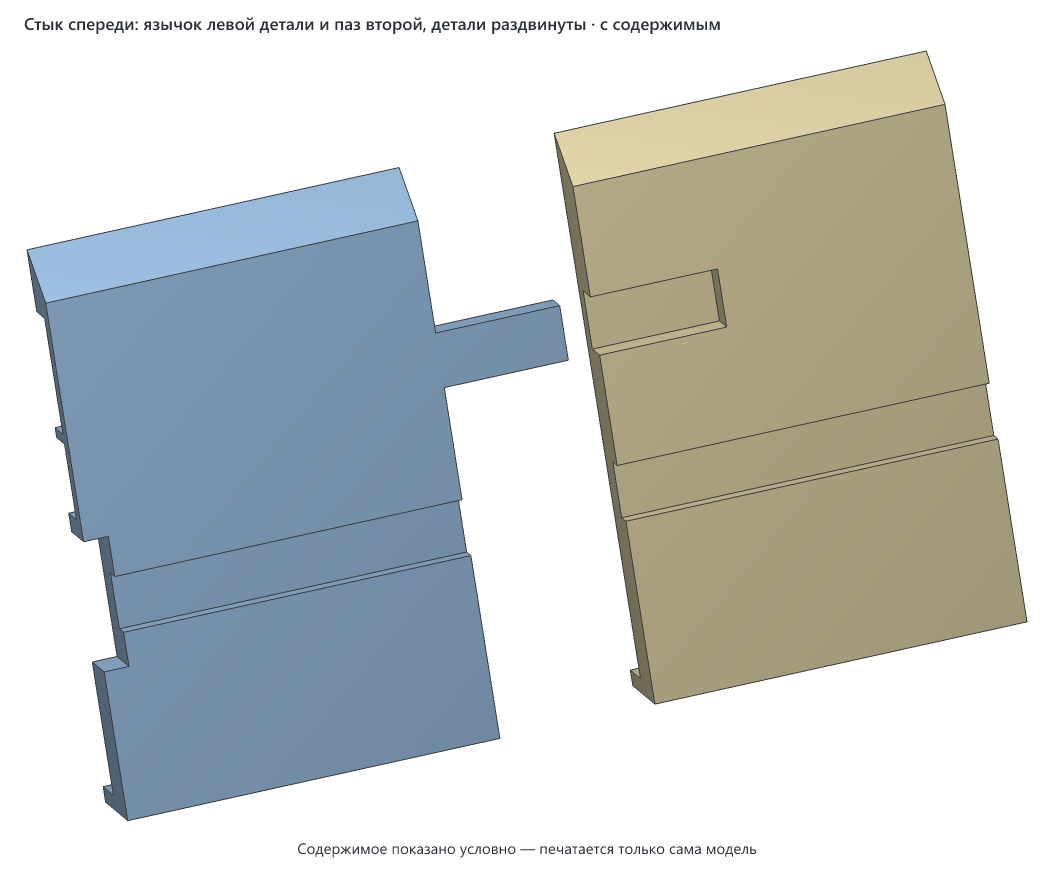
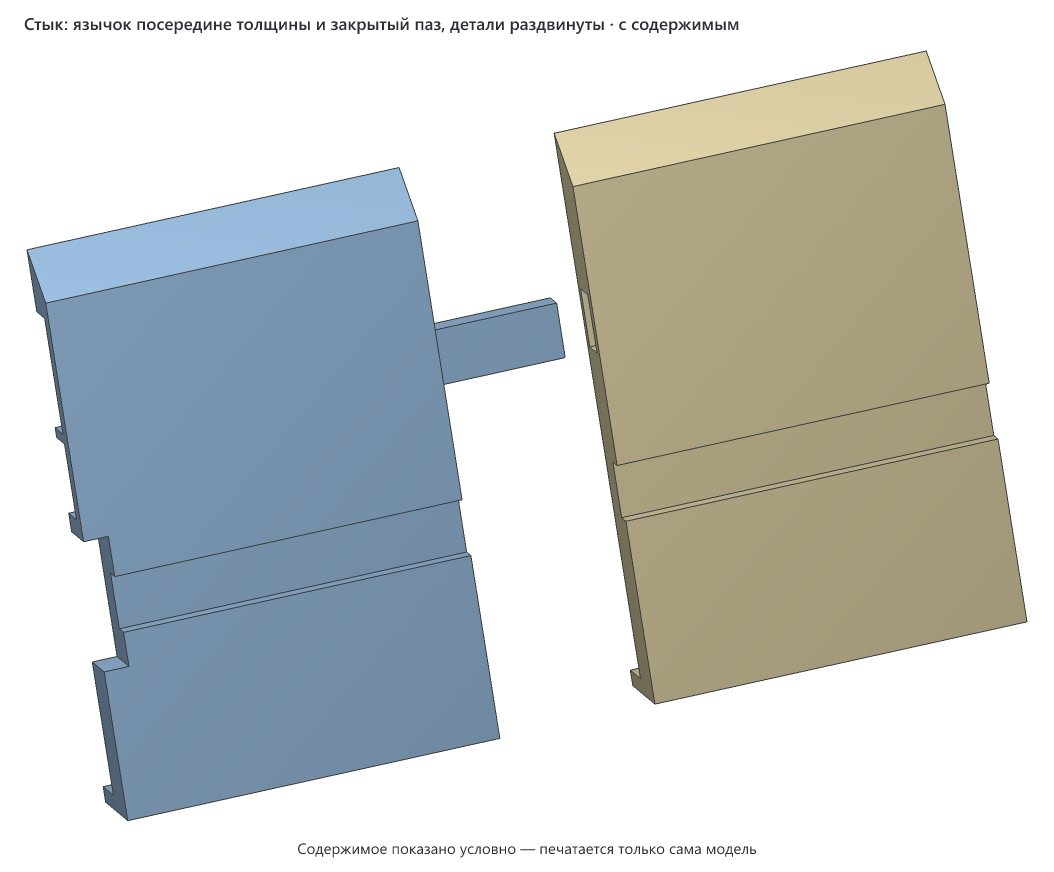
evoform-ledline-s-mirror-trim: язычок посередине толщины, поддержка под ним
Язычок был у лица, и спереди на шве виднелся его контур. Теперь он прямой,
20 × 8,8 × 3,7 мм, посередине толщины, паз закрыт спереди и сзади, открыт
в торец. Под язычком в файле печати поддержка: пять стенок 0,8 мм с зазором
0,2 мм. Сдвиг вдоль шва, зазоры, целое лицо и нависания проверены на модели.

diff --git a/models/evoform-ledline-s-mirror-trim/v1/src/mirror_trim.py b/models/evoform-ledline-s-mirror-trim/v1/src/mirror_trim.py
@@ -15,9 +15,10 @@
 
 Стыки (схема автора): на каждом стыке один прямой прямоугольный язычок и прямой паз под него, открытый в торец. Детали кладут
 лицом на стол и сдвигают друг к другу вдоль шва: язычок въезжает в паз. Поднутрений нет, сдвинуть ничто не мешает.
-Язычок лежит у лица (на печати — на столе): под ним ничего не висит, поддержка не нужна, а подложка обводит его
-со всех сторон и держит на столе. Потолок паза — мост, поэтому язычок
-не шире 8,8 мм: мост не длиннее 10 мм. Спереди на шве виден контур язычка.
+Язычок идёт посередине толщины: спереди и сзади его не видно, спереди шов прямой. Паз закрыт спереди и со стороны
+стекла, открыт только в торец, поэтому язычок держится в нём по высоте и по толщине. На печати лицом вниз язычок
+висит над столом, поэтому под ним в файле печати поддержка: тонкие стенки от стола до низа язычка с зазором
+в слой, после печати отламываются. Потолок паза — мост, поэтому язычок не шире 8,8 мм: мост не длиннее 10 мм.
 
 Пластина не сплошная: лицо 2,4 мм сплошное, сзади ячейки, открытые к стеклу. Сплошные рёбра 3 мм идут по краям,
 вдоль разреза (на верхнее ложится полка), вокруг окон, торцы сплошные (в них язычок или паз). Сплошная пластина
@@ -96,7 +97,11 @@ from manifold3d import CrossSection, JoinType, Manifold
 ЯЗЫК_Д = 20.0             # насколько язычок выходит из торца в соседнюю деталь. Длиннее деталь с подложкой
                           # не помещается на стол 220
 ЯЗЫК_Ш = 8.8              # ширина язычка по высоте накладки: потолок паза 9,4 мм — мост не длиннее 10
-ЯЗЫК_Т = 4.0              # толщина язычка от лица: на печати он лежит на столе; над пазом остаётся 2,7 мм
+ЯЗЫК_Т = 3.7              # толщина язычка
+ЯЗЫК_ОТ_ЛИЦА = 1.8        # язычок начинается в 1,8 мм за лицом: под пазом остаётся лицо 1,5, над пазом 1,2
+ПОДДЕРЖКА_ЗАЗОР = 0.2     # между верхом поддержки и низом язычка: один слой, чтобы поддержка отломилась
+ПОДДЕРЖКА_СТЕНКА = 0.8    # стенки поддержки: два периметра
+ПОДДЕРЖКА_Z = (-3.6, -1.8, 0.0, 1.8, 3.6)   # стенки поддержки вдоль язычка, от его середины по высоте накладки: просвет 1 мм
 ЯЗЫК_Z = 55.5             # центр язычка по высоте: середина верхней полосы, там больше всего пластика
 ПАЗ_ЗАЗОР = 0.3           # паз больше язычка по ширине и толщине на столько с каждой стороны
 ПАЗ_ЗАЗОР_КОНЕЦ = 0.5     # паз длиннее язычка: торцы деталей сходятся вплотную раньше, чем язычок упрётся
@@ -206,14 +211,35 @@ def extrude_y(cs, t):
 
 
 def tab(xs, d):
-    """Язычок у лица: Y от −ТОЛЩИНА до −ТОЛЩИНА + ЯЗЫК_Т."""
-    return extrude_y(CrossSection([tab_pts(xs, d)]), ЯЗЫК_Т).translate((0, -(ТОЛЩИНА - ЯЗЫК_Т), 0))
+    """Язычок посередине толщины: Y от −ТОЛЩИНА + ЯЗЫК_ОТ_ЛИЦА на ЯЗЫК_Т к стеклу."""
+    y_top = -(ТОЛЩИНА - ЯЗЫК_ОТ_ЛИЦА - ЯЗЫК_Т)
+    return extrude_y(CrossSection([tab_pts(xs, d)]), ЯЗЫК_Т).translate((0, y_top, 0))
 
 
 def slot(xs, d):
-    """Паз: открыт в торец и в лицо, со стороны стекла закрыт; потолок на ПАЗ_ЗАЗОР выше язычка."""
-    top = -(ТОЛЩИНА - ЯЗЫК_Т - ПАЗ_ЗАЗОР)
-    return extrude_y(CrossSection([slot_pts(xs, d)]), ТОЛЩИНА + 1 + top).translate((0, top, 0))
+    """Паз: открыт только в торец; спереди и со стороны стекла закрыт, больше язычка на ПАЗ_ЗАЗОР."""
+    y_top = -(ТОЛЩИНА - ЯЗЫК_ОТ_ЛИЦА - ЯЗЫК_Т - ПАЗ_ЗАЗОР)
+    return extrude_y(CrossSection([slot_pts(xs, d)]), ЯЗЫК_Т + 2 * ПАЗ_ЗАЗОР).translate((0, y_top, 0))
+
+
+def tab_support(xs, d):
+    """Поддержка под язычком, только в файле печати: стенки вдоль язычка от лица (стола) до низа язычка
+    с зазором ПОДДЕРЖКА_ЗАЗОР. От торца детали отступает на 0,5 мм, чтобы не прирасти к нему."""
+    h = ЯЗЫК_ОТ_ЛИЦА - ПОДДЕРЖКА_ЗАЗОР
+    a, b = (xs + 0.5, xs + ЯЗЫК_Д - 0.5) if d > 0 else (xs - ЯЗЫК_Д + 0.5, xs - 0.5)
+    m = Manifold()
+    for dz in ПОДДЕРЖКА_Z:
+        z = ЯЗЫК_Z + dz
+        m += box(a, b, -ТОЛЩИНА, -ТОЛЩИНА + h, z - ПОДДЕРЖКА_СТЕНКА / 2, z + ПОДДЕРЖКА_СТЕНКА / 2)
+    return m
+
+
+def supports_of(k):
+    m = Manifold()
+    for xs, kt, ks, d in СТЫКИ:
+        if kt == k:
+            m += tab_support(xs, d)
+    return m
 
 
 def piece(k):
@@ -270,9 +296,6 @@ def keepout(x0, x1, holders, joints=()):
         ko += CrossSection.square((b - a + 2 * c, ДЕРЖ_В + 2 * c)).translate((a - c, -(ДЕРЖ_Z + ДЕРЖ_В) - c))
         xm = (a + b) / 2
         ko += CrossSection.square((ПАЗ_Ш + 2 * o, ДЕРЖ_Z - НИЗ + 2 * o)).translate((xm - ПАЗ_Ш / 2 - o, -ДЕРЖ_Z - o))
-    for xs, kind, d in joints:
-        if kind == "паз":   # язычок подложка обводит: так его не поднимет со стола, остаток срезать ножом
-            ko += bed_cs(slot_pts(xs, d)).offset(o, JoinType.Miter)
     return ko
 
 
@@ -325,8 +348,8 @@ def place(parts, y0=СТОЛ_Y0):
 
 def plate(k):
     x0, x1 = ГРАНИЦЫ[k], ГРАНИЦЫ[k + 1]
-    m = to_bed(piece(k))
-    m = m + pad(m, keepout(x0, x1, holders_in(k), joints_of(k)), ПОДЛОЖКА_Ш, УШКО_R, (x0, x1))
+    m = to_bed(piece(k) + supports_of(k))
+    m = m + pad(m, keepout(x0, x1, holders_in(k)), ПОДЛОЖКА_Ш, УШКО_R, (x0, x1))
     return place([(ИМЕНА[k + 1], m)])
 
 
@@ -336,10 +359,9 @@ def test_plate():
     clip = lambda a, b: box(a, b, -50, 50, -50, 150)
     w0, w1 = ДЕРЖ_X[0] - ОКНО_ЗАЗОР - РАМКА - 8, ДЕРЖ_X[1] + ОКНО_ЗАЗОР + РАМКА + 8   # окно с рамкой и по 8 мм
     pieces = [("окно", piece(0) ^ clip(w0, w1), (w0, w1), holders_in(0), []),
-              ("язычок", piece(0) ^ clip(ШОВ_1 - 15.0, ШОВ_1 + ЯЗЫК_Д + 1), (ШОВ_1 - 15.0, ШОВ_1), [],
-               [(ШОВ_1, "язычок", +1)]),
-              ("паз", piece(1) ^ clip(ШОВ_1, ШОВ_1 + ТОРЕЦ_ПАЗ + 4), (ШОВ_1, ШОВ_1 + ТОРЕЦ_ПАЗ + 4), [],
-               [(ШОВ_1, "паз", +1)])]
+              ("язычок", (piece(0) + supports_of(0)) ^ clip(ШОВ_1 - 15.0, ШОВ_1 + ЯЗЫК_Д + 1), (ШОВ_1 - 15.0, ШОВ_1),
+               [], []),
+              ("паз", piece(1) ^ clip(ШОВ_1, ШОВ_1 + ТОРЕЦ_ПАЗ + 4), (ШОВ_1, ШОВ_1 + ТОРЕЦ_ПАЗ + 4), [], [])]
     out = []
     for n, m, (a, b), hs, js in pieces:
         mb = to_bed(m)

diff --git a/models/evoform-ledline-s-mirror-trim/README.md b/models/evoform-ledline-s-mirror-trim/README.md
@@ -12,7 +12,7 @@
 - **Окна под держатели.** В крайних деталях есть окна под штатные держатели полки.
 - **Разрез под полку.** Во всех деталях на высоте полки идёт разрез. Полка проходит через него в держатели до упора.
 - **Как держится.** Каждая деталь лежит на полке верхней кромкой разреза: полка заходит в разрез на 2 мм. За краем полки остаётся перемычка 4,5 мм, она соединяет верх и низ детали и не даёт ей уйти вперёд. Клей и винты не нужны. На стекло накладка не давит, только прилегает.
-- **Стыки.** На каждом стыке один прямой язычок 20 × 8,8 × 4 мм и паз под него, открытый в торец. Детали сдвигают друг к другу вдоль шва, и язычок въезжает в паз. Язычок лежит у лица детали, поэтому спереди на шве виден его контур. Планку собирают на столе и надевают на зеркало целиком.
+- **Стыки.** На каждом стыке один прямой язычок 20 × 8,8 × 3,7 мм посередине толщины и паз под него. Паз закрыт спереди и сзади и открыт только в торец. Детали сдвигают друг к другу вдоль шва, и язычок въезжает в паз. Спереди язычка не видно, шов прямой. Планку собирают на столе и надевают на зеркало целиком.
 - **Сзади ячейки.** Лицо 2,4 мм сплошное, сзади ячейки, открытые к стеклу. Сплошные рёбра 3 мм идут по краям, вдоль разреза и вокруг окон, торцы сплошные. Так деталь меньше коробится на столе, и на неё уходит вдвое меньше пластика, чем на сплошную.
 - **Дно.** Внизу у детали дно, оно заходит под кромку стекла. Если из треснувшего угла выпадет кусок, он упадёт на дно, а не в раковину.
 
@@ -29,7 +29,7 @@
    - Так же вдвиньте деталь 4 в другой торец детали 3.
    - Последней вдвиньте деталь 1 в свободный торец детали 2.
 
-   Язычок входит в паз от руки: зазор 0,3 мм по бокам и сверху. Стык держит детали по высоте и в сторону стекла. Разъехаться вдоль шва и в сторону лица он им не мешает. Поэтому на время переноски заклейте швы спереди полоской малярного скотча. Снимите её, когда полка встанет на место.
+   Язычок входит в паз от руки: зазор 0,3 мм со всех сторон. Стык держит детали по высоте и по толщине, но не держит вдоль шва: разъехаться детали могут. Поэтому на время переноски заклейте швы спереди полоской малярного скотча. Снимите её, когда полка встанет на место.
 
    ![Стык спереди, детали раздвинуты](v1/img/seam.png)
 
@@ -66,7 +66,7 @@
 Посадки с зазором:
 - держатель проходит в окно с зазором 1,5 мм с каждой стороны;
 - полка входит в разрез с зазором 1 мм снизу;
-- язычок входит в паз с зазором 0,3 мм по бокам и сверху и 0,5 мм в конце.
+- язычок входит в паз с зазором 0,3 мм со всех сторон и 0,5 мм в конце.
 
 На другом принтере и другой нити зазоры могут выйти иначе. Проверить их до печати целых деталей можно пробником: генератор делает его командой `--test` (кусок с окном и пара кусков со стыком).
 
@@ -100,8 +100,8 @@
 | Материал / цвет | PETG, у автора белый |
 | Сопло / высота слоя | 0,4 мм / 0,2 мм |
 | Стенки / заполнение | 4 стенки: тогда рамки 3 мм (на верхней у разреза лежит полка) и торцы с пазами выходят сплошными или почти сплошными. Рёбра ячеек 1,6 мм сплошные при любом числе стенок. Заполнение 20–25 %, любой узор |
-| Поддержки | не нужны. Язычок лежит на столе, под ним ничего не висит. Все нижние грани растут не круче 45°, кроме мостов с опорой с двух сторон: перемычки над разрезом (пролёт 9 мм), паза под отвёртку (8 мм) и потолка паза под язычок (9,4 мм) |
-| Подложки | есть в модели у каждой детали: кольцо в первый слой по 21 мм со всех сторон, торцы и язычок тоже. После печати оторвать, как кайму. Вдоль разреза, у окон, у паза под отвёртку и в пазу под язычок подложки нет. На торцах со стыками и по краям язычка остаток срезать ножом заподлицо, иначе язычок не войдёт и шов не сойдётся |
+| Поддержки | в слайсере не включать: где нужна, она уже есть в файле. Язычок висит над столом, под ним в файле поддержка — пять стенок 0,8 мм от стола до низа язычка с зазором 0,2 мм, от торца отступ 0,5 мм. После печати отломать вместе с подложкой. Все остальные нижние грани растут не круче 45°, кроме мостов с опорой с двух сторон: перемычки над разрезом (пролёт 9 мм), паза под отвёртку (8 мм) и потолка паза под язычок (9,4 мм) |
+| Подложки | есть в модели у каждой детали: кольцо в первый слой по 21 мм со всех сторон, торцы тоже. После печати оторвать, как кайму. Вдоль разреза, у окон и у паза под отвёртку подложки нет. На торцах со стыками остаток срезать ножом заподлицо, иначе шов не сойдётся |
 | Ориентация на столе | лицом на стол, так в файле. Длинной стороной вдоль X, ближе к заднему краю стола (Y от 80 мм) |
 | Деталей на столе | одна. Четыре детали — четыре файла |
 | Время / расход (по слайсеру) | ещё не считалось. Объём тела 58–59 см³ на деталь |
@@ -140,7 +140,8 @@ node ../../../tools/render-3mf.mjs evoform-ledline-s-mirror-trim-v1-4p-filled.3m
 - Почему так:
   - подложка 21 мм со всех сторон: длинная плоская деталь из PETG поднимается со стола с углов и с торцов;
   - сзади ячейки: сплошная пластина такой площади коробится при остывании;
-  - язычок у лица, а не в глубине: так он лежит на столе и ничего не висит в воздухе, а паз сверху закрыт мостом 9,4 мм;
+  - язычок посередине толщины, паз закрыт: спереди и сзади стык не виден, и язычок держится в пазу по толщине;
+  - под язычком поддержка прямо в файле: на печати лицом вниз он висит над столом на 1,8 мм;
   - язычок прямоугольный, без поднутрений: детали сдвигаются вдоль шва, ничто не упирается;
   - деталь лежит дальше от переднего края стола: там K1C чертит линию прочистки;
   - четыре детали: так всё это помещается на стол 220 × 220.
